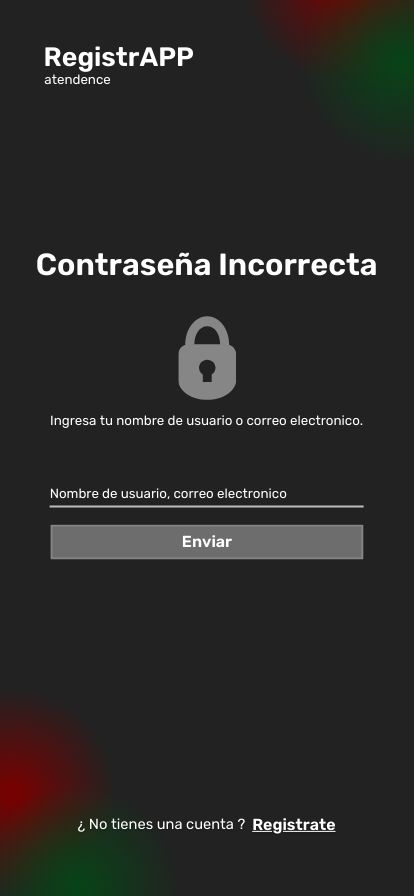
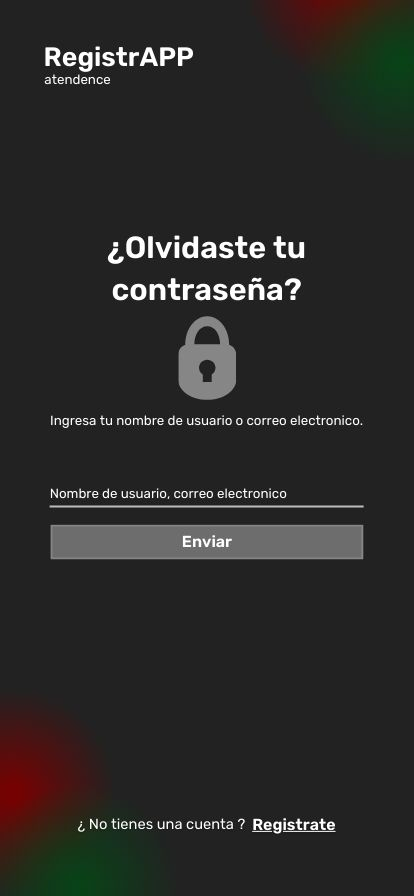
intento de fondo

Changed region(s): [[0.087, 0.25, 0.9275, 0.3438]]

diff --git a/RegistrAPP/src/app/registro/recuperar/recuperar.page.html b/RegistrAPP/src/app/registro/recuperar/recuperar.page.html
@@ -1,13 +1,3 @@
-<ion-header [translucent]="true">
-  <ion-toolbar>
-    <ion-title>recuperar</ion-title>
-  </ion-toolbar>
-</ion-header>
-
-<ion-content [fullscreen]="true">
-  <ion-header collapse="condense">
-    <ion-toolbar>
-      <ion-title size="large">recuperar</ion-title>
-    </ion-toolbar>
-  </ion-header>
+<ion-content [fullscreen]="true" class="fondoR">
+  
 </ion-content>

diff --git a/RegistrAPP/src/app/registro/recuperar/recuperar.page.scss b/RegistrAPP/src/app/registro/recuperar/recuperar.page.scss
@@ -1,0 +1,4 @@
+.fondoR {
+    background-image:url("../../../assets/fondo_registro.jpg");
+    background-size: cover;
+}
